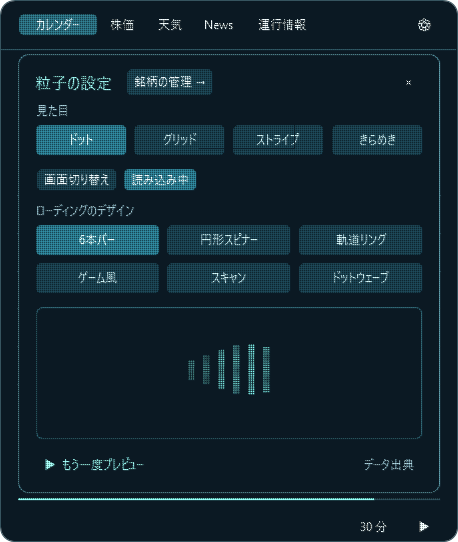
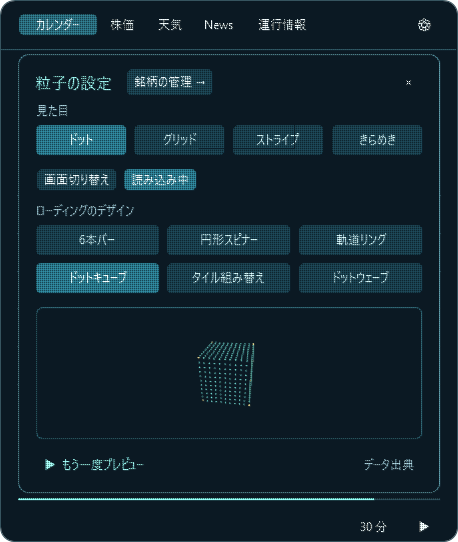
Replace game and scan loaders with rotating dot cube and sliding tiles

Changed region(s): [[0.0611, 0.4133, 0.3668, 0.5609], [0.3974, 0.6199, 0.6114, 0.7675], [0.4279, 0.5018, 0.5808, 0.5314]]

diff --git a/src/LoadingAnimation.cs b/src/LoadingAnimation.cs
@@ -40,24 +40,58 @@ namespace OrbitCalendar
             else if (Preferences.Pattern == 2) dc.DrawRectangle(ink, null, new Rect(x - radius, y - .35, radius * 2.5, .7));
             else dc.DrawEllipse(ink, null, new Point(x, y), radius, radius);
         }
-        static void Segment(DrawingContext dc, double x, double y, double a, double b, double light)
-        {
-            int n = Math.Max(1, (int)Math.Ceiling(new Vector(a - x, b - y).Length / 2.2));
-            for (int i = 0; i <= n; i++) Dot(dc, x + (a - x) * i / n, y + (b - y) * i / n, light);
-        }
         static void Block(DrawingContext dc, double x, double y, double width, double height, double light)
         {
             for (double py = y; py < y + height; py += 2.2)
                 for (double px = x; px < x + width; px += 2.2) Dot(dc, px, py, light);
         }
-        static void Corners(DrawingContext dc)
+        static void Cube(DrawingContext dc, double phase)
         {
-            for (int side = -1; side <= 1; side += 2)
-                for (int vertical = -1; vertical <= 1; vertical += 2)
+            double yaw = phase * Math.PI / 2, pitch = -.48;
+            double cy = Math.Cos(yaw), sy = Math.Sin(yaw), cp = Math.Cos(pitch), sp = Math.Sin(pitch);
+            for (int face = 0; face < 6; face++)
+            {
+                int axis = face / 2; double side = face % 2 == 0 ? -1 : 1;
+                double nx = axis == 0 ? side : 0, ny = axis == 1 ? side : 0, nz = axis == 2 ? side : 0;
+                double normalDepth = ny * sp + (-nx * sy + nz * cy) * cp;
+                if (normalDepth <= 0) continue;
+                for (int a = 0; a <= 10; a++) for (int b = 0; b <= 10; b++)
                 {
-                    double x = 102 + side * 62, y = 55 + vertical * 30;
-                    Segment(dc, x, y, x - side * 10, y, .42); Segment(dc, x, y, x, y - vertical * 8, .42);
+                    double u = -22 + a * 4.4, v = -22 + b * 4.4;
+                    double x = axis == 0 ? side * 22 : u;
+                    double y = axis == 1 ? side * 22 : axis == 0 ? u : v;
+                    double z = axis == 2 ? side * 22 : v;
+                    double rotatedX = x * cy + z * sy, rotatedZ = -x * sy + z * cy;
+                    double rotatedY = y * cp - rotatedZ * sp, depth = y * sp + rotatedZ * cp;
+                    double perspective = 150 / (150 - depth);
+                    bool corner = (a == 0 || a == 10) && (b == 0 || b == 10);
+                    Dot(dc, 102 + rotatedX * perspective, 56 + rotatedY * perspective,
+                        .3 + normalDepth * .6, .7 + (depth + 35) * .002, corner);
                 }
+            }
+        }
+        static readonly int[] tilePath = { 8, 7, 4, 3, 0, 1, 2, 5, 4, 7, 6, 3, 4, 5, 8 };
+        static int TileGap(int step) { return tilePath[step <= 14 ? step : 28 - step]; }
+        static void Tiles(DrawingContext dc, double phase)
+        {
+            // Reverse the sliding sequence to return to the initial board without a jump.
+            double clock = Wrap(phase / 14) * 28;
+            int step = (int)clock;
+            double t = Math.Min(1, (clock - step) / .82); t = t * t * (3 - 2 * t);
+            int[] board = { 0, 1, 2, 3, 4, 5, 6, 7, -1 };
+            for (int move = 0; move < step; move++)
+            {
+                int from = TileGap(move + 1), to = TileGap(move);
+                board[to] = board[from]; board[from] = -1;
+            }
+            int moving = TileGap(step + 1), gap = TileGap(step);
+            for (int cell = 0; cell < board.Length; cell++)
+            {
+                if (board[cell] < 0) continue;
+                double col = cell % 3, row = cell / 3;
+                if (cell == moving) { col += (gap % 3 - col) * t; row += (gap / 3 - row) * t; }
+                Block(dc, 68 + col * 24, 22 + row * 24, 20, 20, cell == moving ? .98 : .48 + board[cell] % 4 * .1);
+            }
         }
         protected override void OnRender(DrawingContext dc)
         {
@@ -87,26 +121,10 @@ namespace OrbitCalendar
                     Block(dc, 99, 52, 6, 6, .8);
                     break;
                 case 3:
-                    Corners(dc);
-                    for (int i = 0; i < 12; i++)
-                    {
-                        double angle = i * Math.PI / 6 - Math.PI / 2;
-                        double light = 1 - Wrap(i / 12.0 - phase * .6);
-                        for (int length = 0; length < 5; length++) for (int width = -1; width <= 1; width++)
-                            Dot(dc, 102 + Math.Cos(angle) * (20 + length * 2.2) - Math.Sin(angle) * width * 2.2,
-                                53 + Math.Sin(angle) * (20 + length * 2.2) + Math.Cos(angle) * width * 2.2, light);
-                    }
-                    for (int i = 0; i < 9; i++) Block(dc, 62 + i * 9, 94, 5, 4, 1 - Wrap(i / 9.0 - phase * .7));
+                    Cube(dc, phase);
                     break;
                 case 4:
-                    Corners(dc);
-                    double scan = 102 + Math.Sin(phase * 2.5) * 49;
-                    for (int row = 0; row < 5; row++) for (int col = 0; col < 11; col++)
-                    {
-                        double x = 52 + col * 10, light = Math.Exp(-Math.Abs(x - scan) / 17);
-                        Block(dc, x, 32 + row * 10, 4, 4, light);
-                    }
-                    Segment(dc, scan, 30, scan, 80, 1);
+                    Tiles(dc, phase);
                     break;
                 case 5:
                     for (int i = 0; i < 6; i++)

diff --git a/src/Controls.cs b/src/Controls.cs
@@ -140,7 +140,7 @@ namespace OrbitCalendar
                 Preferences.Motion = value;
                 PreviewSetting();
             });
-            FillChoices("LoadingChoices", new[] { "6本バー", "円形スピナー", "軌道リング", "ゲーム風", "スキャン", "ドットウェーブ" }, Preferences.LoadingStyle, delegate(int value)
+            FillChoices("LoadingChoices", new[] { "6本バー", "円形スピナー", "軌道リング", "ドットキューブ", "タイル組み替え", "ドットウェーブ" }, Preferences.LoadingStyle, delegate(int value)
             {
                 Preferences.LoadingStyle = value;
                 PreviewSetting();
